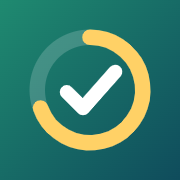
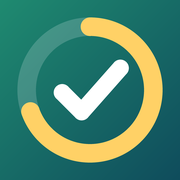
0.7.8: нагадування групами (сьогодні, попереду, повторювані, минулі); наочніша теплова карта — на всю ширину, місяці й дні тижня, сьогодні в рамці, дотик показує день; крупніша іконка

Changed region(s): [[0.0833, 0.0833, 0.9167, 0.9167], [0.5, 0.4722, 0.5278, 0.5]]

diff --git a/js/app.js b/js/app.js
@@ -702,19 +702,29 @@ function reminderCard(r) {
       h('span', { class: 'act-sub' }, `${M.remindWhen(r)} · ${r.from}–${r.to}`)));
 }
 
-/** Список нагадувань у вкладці «Заняття»: чинні, нижче згорнуті минулі разові. */
+/**
+ * Нагадування у вкладці «Заняття» — групами за тим, коли спрацюють: сьогодні, попереду разові,
+ * повторювані (що не сьогодні), минулі разові. Кожна група згортається, порожні не показуємо.
+ */
 function remindersSection() {
   const today = M.ymd();
   const byTime = (a, b) => (a.date || '').localeCompare(b.date || '') || a.from.localeCompare(b.from);
-  const past = state.reminders.filter((r) => r.kind === 'once' && r.date < today).sort(byTime).reverse();
-  const live = state.reminders.filter((r) => !past.includes(r)).sort(byTime);
+  const all = [...state.reminders].sort(byTime);
+  const now = all.filter((r) => M.remindOn(r, today)).sort((a, b) => a.from.localeCompare(b.from));
+  const ahead = all.filter((r) => r.kind === 'once' && r.date > today);
+  const repeat = all.filter((r) => r.kind !== 'once' && !now.includes(r));
+  const past = all.filter((r) => r.kind === 'once' && r.date < today).reverse();
+  const group = (key, title, list, def) => (list.length ? folded(`reminders-${key}`,
+    h('h2', { class: 'section-title' }, `${title} · ${list.length}`),
+    h('div', { class: 'stack' }, list.map(reminderCard)), { def, persist: true, cls: 'plain-fold' }) : null);
   return h('div', { class: 'stack' },
     h('h2', { class: 'section-title' }, 'Нагадування'),
     h('p', { class: 'muted small lead' }, 'Окремо від хобі: не рахуються в цілях. Разові й повторювані — щодня, у дні тижня чи в числа місяця.'),
-    ...live.map(reminderCard),
+    group('today', 'Сьогодні', now, true),
+    group('ahead', 'Попереду', ahead, true),
+    group('repeat', 'Повторювані', repeat, true),
     button('plus', 'Нове нагадування', 'copy-btn', () => editReminder()),
-    past.length ? folded('reminders-past', h('h2', { class: 'section-title' }, `Минулі разові · ${past.length}`),
-      h('div', { class: 'stack' }, past.map(reminderCard)), { def: false, persist: true, cls: 'plain-fold' }) : null);
+    group('past', 'Минулі разові', past, false));
 }
 
 // ---------- «Є кілька хвилин» ----------
@@ -1982,7 +1992,7 @@ function heatMap(a, heat) {
     const score = days[date] ?? 0;
     if (score) active += 1;
     const lvl = date > today ? 'future' : score >= 4 ? 'l3' : score >= 2 ? 'l2' : score ? 'l1' : M.pauseOn(date, pauses()) ? 'pause' : 'l0';
-    grid.append(h('span', { class: lvl, title: date > today ? null : `${M.dayMonth(date)}: ${score ? `${Math.floor(score / 2)} повн., ${score % 2} мін.` : 'нічого'}` }));
+    grid.append(h('span', { class: date === today ? `${lvl} today` : lvl, title: date > today ? null : `${M.dayMonth(date)}: ${score ? `${Math.floor(score / 2)} повн., ${score % 2} мін.` : 'нічого'}` }));
   }
   grid.setAttribute('aria-label', `За ${HEAT_WEEKS} тижнів — ${active} ${plural(active, 'день', 'дні', 'днів')} із заняттям`);
   return grid;
@@ -2058,11 +2068,24 @@ async function moveAmong(wrap, to) {
 // Заняття з розгорнутою тепловою картою — пам'ятаємо між запусками
 const heatOpen = new Set((recall('heat-open') ?? '').split(',').filter(Boolean));
 
-/** Під карткою: теплова карта з підписом і легендою «менше — більше». */
+/**
+ * Під карткою: підсумок, теплова карта з місяцями згори й днями тижня ліворуч, легенда «менше — більше».
+ * Дотик до квадратика пише його день у підсумок — на телефоні підказки title не видно.
+ */
 function heatPanel(a, heat) {
+  const grid = heatMap(a, heat);
+  const total = grid.getAttribute('aria-label');
+  const info = h('div', { class: 'heat-info' }, total);
+  grid.addEventListener('click', (e) => { info.textContent = e.target.title || total; });
+  const months = h('span', { class: 'heat-months', 'aria-hidden': 'true' }, Array.from({ length: HEAT_WEEKS }, (_, w) => {
+    const d = M.addDays(heat.from, 7 * w);
+    const first = w === 0 || d.slice(5, 7) !== M.addDays(d, -7).slice(5, 7);
+    return h('span', {}, first ? M.parseYmd(d).toLocaleDateString('uk', { month: 'short' }) : '');
+  }));
+  const days = h('span', { class: 'heat-days', 'aria-hidden': 'true' }, M.DAY_SHORT.map((d, i) => h('span', {}, i % 2 ? '' : d)));
   return h('div', { class: 'heat-panel', style: actStyle(a) },
-    h('div', { class: 'muted small' }, `${HEAT_WEEKS} тижнів · стовпчик — тиждень`),
-    heatMap(a, heat),
+    info,
+    h('div', { class: 'heat-frame' }, h('span', {}), months, days, grid),
     h('div', { class: 'heat-legend muted small' }, 'менше',
       h('span', { class: 'heat' }, ['l0', 'l1', 'l2', 'l3'].map((c) => h('span', { class: c }))), 'більше',
       h('span', { class: 'heat' }, h('span', { class: 'pause' })), 'пауза'));

diff --git a/js/changes.js b/js/changes.js
@@ -2,6 +2,15 @@
 // Новий реліз — запис згори; v — як APP_VERSION у version.js.
 export const CHANGES = [
   {
+    v: '0.7.8',
+    items: [
+      '«Заняття» → «Нагадування» — групами: «Сьогодні», «Попереду», «Повторювані», «Минулі разові»; кожна згортається й пам’ятає це.',
+      'Теплова карта заняття більша й наочніша: клітинки на всю ширину, місяці згори, дні тижня ліворуч, сьогодні — в рамці, угорі — скільки днів із заняттям. Дотик до клітинки показує її день.',
+      'Іконка застосунку крупніша. Android підтягне її сам за кілька днів, на iPhone — після того, як заново додаси застосунок на екран «Додому».',
+      'Бот: «План на завтра» — по вікнах, як підсумок дня; «Не забудь» у плані й підсумку — згорнутою цитатою з лічильником; зважився в «Вазі» — нагадування зважитись зникає.',
+    ],
+  },
+  {
     v: '0.7.7',
     items: [
       'Налаштування → «Вікна дня й вихідні»: будні й вихідні — окремими рамками з днями в заголовку («Будні · Пн–Пт»), вихідні — кольором вихідних; назви вікон видно цілком.',

diff --git a/css/app.css b/css/app.css
@@ -373,7 +373,15 @@ button.link-btn { padding: 0; border: 0; background: none; color: var(--accent);
 .pick-group-title .ico svg { width: 16px; height: 16px; }
 .pick-chosen { display: grid; gap: 10px; }
 .heat-panel { display: grid; gap: 8px; padding: 12px 14px; border-radius: 16px; background: var(--surface); border: 1px solid var(--line); }
-.heat-panel > .heat { margin-top: 0; grid-template-rows: repeat(7, 14px); grid-auto-columns: 14px; gap: 3px; }
+/* Клітинки тягнуться на ширину картки (до 28px), квадратні; дні тижня — тими ж рядками */
+.heat-frame { display: grid; grid-template-columns: max-content minmax(0, 369px); gap: 4px 6px; }
+.heat-frame > .heat { margin-top: 0; width: auto; grid-template-rows: repeat(7, auto); grid-auto-columns: 1fr; gap: 3px; }
+.heat-frame > .heat > span { aspect-ratio: 1; }
+.heat > .today { outline: 2px solid var(--text); outline-offset: 1px; }
+.heat-info { font-size: 14px; font-weight: 700; }
+.heat-months { display: grid; grid-auto-flow: column; grid-auto-columns: 1fr; gap: 3px; }
+.heat-months > span, .heat-days > span { font-size: 10px; font-weight: 700; color: var(--muted); white-space: nowrap; }
+.heat-days { display: grid; grid-template-rows: repeat(7, 1fr); gap: 3px; align-items: center; }
 .heat-legend { display: flex; align-items: center; gap: 6px; flex-wrap: wrap; }
 .heat-legend .heat { margin-top: 0; grid-template-rows: 10px; grid-auto-columns: 10px; }
 

diff --git a/version.js b/version.js
@@ -1,5 +1,5 @@
 // Підняти при кожному релізі: від цього залежить оновлення кешу service worker.
-self.APP_VERSION = '0.7.7';
+self.APP_VERSION = '0.7.8';
 // Номер складання міняється з кожним оновленням, навіть без зміни версії,
 // інакше service worker вважає файли тими самими й не пропонує оновитись.
-self.APP_BUILD = '2026-10-20-13';
+self.APP_BUILD = '2026-10-22-1';

diff --git a/scripts/make_icons.py b/scripts/make_icons.py
@@ -1,0 +1,61 @@
+"""Іконки застосунку з геометрії icons/icon.svg (кільце таймера з галочкою) — PNG для маніфесту й iOS.
+
+SCALE — розмір кільця відносно svg; maskable дрібніша (MASK), щоб кільце лишалось у безпечному колі Android (r = 40%).
+Запуск: python scripts/make_icons.py
+"""
+import math
+from pathlib import Path
+
+from PIL import Image, ImageDraw
+
+SCALE = 1.2
+MASK = 0.78
+SS = 4  # малюємо вчетверо більшим і зменшуємо — згладжені краї
+ICONS = Path(__file__).resolve().parent.parent / 'icons'
+
+
+def hex_rgb(h):
+    return tuple(int(h[i:i + 2], 16) for i in (1, 3, 5))
+
+
+def render(size, k):
+    n = 512 * SS
+    a, b = hex_rgb('#1f8a70'), hex_rgb('#0f4c5c')
+    # Діагональний градієнт: смуга на кожне значення x + y
+    grad = Image.new('RGB', (2 * n, 1))
+    grad.putdata([tuple(round(a[c] + (b[c] - a[c]) * i / (2 * n - 1)) for c in range(3)) for i in range(2 * n)])
+    bg = Image.new('RGB', (n, n))
+    for y in range(n):
+        bg.paste(grad.crop((y, 0, y + n, 1)), (0, y))
+
+    over = Image.new('RGBA', (n, n), (0, 0, 0, 0))
+    d = ImageDraw.Draw(over)
+    s = SS * k
+    c = 256 * SS
+    p = lambda x, y: (c + (x - 256) * s, c + (y - 256) * s)  # noqa: E731
+    dot = lambda x, y, w, col: d.ellipse([p(x, y)[0] - w / 2, p(x, y)[1] - w / 2, p(x, y)[0] + w / 2, p(x, y)[1] + w / 2], fill=col)  # noqa: E731
+
+    r, w = 150 * s, 44 * s
+    box = [c - r - w / 2, c - r - w / 2, c + r + w / 2, c + r + w / 2]
+    d.ellipse(box, outline=(255, 255, 255, 46), width=round(w))
+    over2 = Image.new('RGBA', (n, n), (0, 0, 0, 0))
+    d = ImageDraw.Draw(over2)
+    yellow = (255, 209, 102, 255)
+    end = math.degrees(math.atan2(307 - 256, 115 - 256))
+    d.arc(box, -90, end, fill=yellow, width=round(w))
+    dot(256, 106, w, yellow)
+    dot(115, 307, w, yellow)
+    pts = [(190, 262), (236, 308), (328, 204)]
+    cw = 40 * s
+    d.line([p(*q) for q in pts], fill=(255, 255, 255, 255), width=round(cw))
+    for q in pts:
+        dot(*q, cw, (255, 255, 255, 255))
+
+    img = Image.alpha_composite(Image.alpha_composite(bg.convert('RGBA'), over), over2).convert('RGB')
+    return img.resize((size, size), Image.LANCZOS)
+
+
+for name, size, k in [('icon-512', 512, SCALE), ('icon-192', 192, SCALE), ('apple-touch-icon', 180, SCALE),
+                      ('icon-maskable-512', 512, SCALE * MASK)]:
+    render(size, k).save(ICONS / f'{name}.png', optimize=True)
+    print(name)
